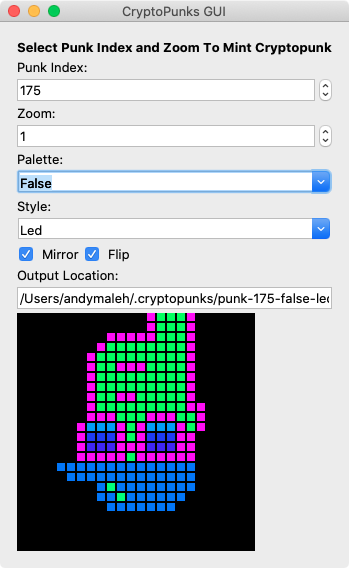
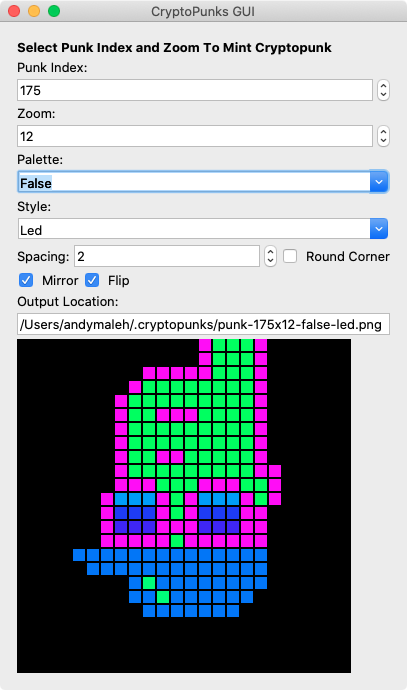
Led style spacing & round corner options + Sketch style line option

diff --git a/app/cryptopunks_gui.rb b/app/cryptopunks_gui.rb
@@ -13,7 +13,7 @@ class CryptopunksGui
   PALETTES = ['Standard'] + (Palette8bit.constants).map(&:name).map {|palette| palette.split('_').map(&:capitalize).join(' ')}.reject { |palette| palette.include?(' ') }.sort
   STYLES = ['Normal', 'Led', 'Sketch']
   
-  attr_accessor :punk_index, :zoom, :palette, :style, :flip, :mirror
+  attr_accessor :punk_index, :zoom, :palette, :style, :led_spacing, :led_round_corner, :sketch_line, :flip, :mirror
   
   def initialize
     initialize_punks
@@ -44,6 +44,9 @@ class CryptopunksGui
     @zoom = 12
     @palette = PALETTES.first
     @style = STYLES.first
+    @led_spacing = 2
+    @led_round_corner = false
+    @sketch_line = 1
     @mirror = false
     @flip = false
   end
@@ -54,6 +57,9 @@ class CryptopunksGui
     observer.observe(self, :zoom)
     observer.observe(self, :palette)
     observer.observe(self, :style)
+    observer.observe(self, :led_spacing)
+    observer.observe(self, :led_round_corner)
+    observer.observe(self, :sketch_line)
     observer.observe(self, :mirror)
     observer.observe(self, :flip)
   end
@@ -64,7 +70,17 @@ class CryptopunksGui
     selected_punk = @punks[@punk_index.to_i]
     selected_punk = selected_punk.change_palette8bit(Palette8bit.const_get(@palette.gsub(' ', '_').upcase.to_sym)) if @palette != PALETTES.first
     @original_zoom = @zoom
-    selected_punk = selected_punk.send(@style.underscore, @zoom.to_i) if @style != STYLES.first
+    if @style != STYLES.first
+      style_options = {}
+      if @style == 'Led'
+        style_options[:spacing] = @led_spacing.to_i
+        style_options[:round_corner] = @led_round_corner
+      end
+      if @style == 'Sketch'
+        style_options[:line] = @sketch_line.to_i
+      end
+      selected_punk = selected_punk.send(@style.underscore, @zoom.to_i, **style_options)
+    end
     selected_punk = selected_punk.mirror if @mirror
     selected_punk = selected_punk.flip if @flip
     selected_punk = selected_punk.zoom(@zoom.to_i) if @style == STYLES.first
@@ -117,7 +133,11 @@ class CryptopunksGui
         }
         combobox {
           readonly true
-          text <=> [self, :style]
+          text <=> [self, :style, after_write: ->(val) {add_style_options}]
+        }
+        
+        @style_options_frame = frame {
+          padding 0
         }
         
         frame {
@@ -161,6 +181,62 @@ class CryptopunksGui
           grid row_weight: 1
         }
       }
+    }
+  end
+  
+  def add_style_options
+    @style_options_frame.content {
+      @style_options_frame.children.each(&:destroy)
+      if @style == 'Led'
+        frame {
+          padding 0
+          
+          label {
+            grid row: 0, column: 0, column_weight: 0
+            text 'Spacing:'
+          }
+          spinbox {
+            grid row: 0, column: 1
+            from 1
+            to 72
+            text <=> [self, :led_spacing]
+          }
+          
+          checkbutton {
+            grid row: 0, column: 2
+            variable <=> [self, :led_round_corner]
+          }
+          label {
+            grid row: 0, column: 3
+            text 'Round Corner'
+            
+            on('Button-1') do
+              self.led_round_corner = !led_round_corner
+            end
+          }
+        }
+      elsif @style == 'Sketch'
+        frame {
+          padding 0
+          
+          label {
+            grid row: 0, column: 0, column_weight: 0
+            text 'Line:'
+          }
+          spinbox {
+            grid row: 0, column: 1
+            from 1
+            to 72
+            text <=> [self, :sketch_line]
+          }
+        }
+      else
+        frame { # filler
+          padding 0
+          height 0
+          width 0
+        }
+      end
     }
   end
 end

diff --git a/README.md b/README.md
@@ -1,4 +1,4 @@
-# <img src="https://raw.githubusercontent.com/AndyObtiva/cryptopunks-gui/master/icons/cryptopunks-gui.png" height=85 /> CryptoPunks GUI 0.0.4
+# <img src="https://raw.githubusercontent.com/AndyObtiva/cryptopunks-gui/master/icons/cryptopunks-gui.png" height=85 /> CryptoPunks GUI 0.0.5
 ## Simplified Minting
 [![Gem Version](https://badge.fury.io/rb/cryptopunks-gui.svg)](http://badge.fury.io/rb/cryptopunks-gui)
 
@@ -25,7 +25,7 @@ You can use CryptoPunks GUI via gem or via cloning repository.
 Run:
 
 ```
-gem install cryptopunks-gui -v0.0.4
+gem install cryptopunks-gui -v0.0.5
 ```
 
 Afterwards, run app via:
@@ -99,11 +99,29 @@ Change palette to get different punk colors.
 
 Change style to get different punk looks.
 
+#### Normal Style
+
 ![Screenshot](/screenshots/cryptopunks-gui-screenshot-style-normal.png)
+
+#### Led Style
 
 ![Screenshot](/screenshots/cryptopunks-gui-screenshot-style-led.png)
 
+##### Led Spacing
+
+![Screenshot](/screenshots/cryptopunks-gui-screenshot-style-led-spacing.png)
+
+##### Led Round Corner
+
+![Screenshot](/screenshots/cryptopunks-gui-screenshot-style-led-round-corner.png)
+
+#### Sketch Style
+
 ![Screenshot](/screenshots/cryptopunks-gui-screenshot-style-sketch.png)
+
+##### Sketch Line
+
+![Screenshot](/screenshots/cryptopunks-gui-screenshot-style-sketch-line.png)
 
 ### Mirror/Flip
 

diff --git a/TODO.md b/TODO.md
@@ -2,9 +2,6 @@
 
 ## Next
 
-- Sketch style line option
-- Sketch style spacing option
-- Sketch style round corner option
 - Multiple Punk Collections (https://github.com/cryptopunksnotdead/awesome-24px)
 - Generate Punks algorithmically from attributes
 - Report attributes

diff --git a/CHANGELOG.md b/CHANGELOG.md
@@ -2,6 +2,9 @@
 
 ## 0.0.5
 
+- Led style spacing option
+- Led style round corner option
+- Sketch style line option
 - Apply zoom to led and sketch styles correctly
 
 ## 0.0.4
